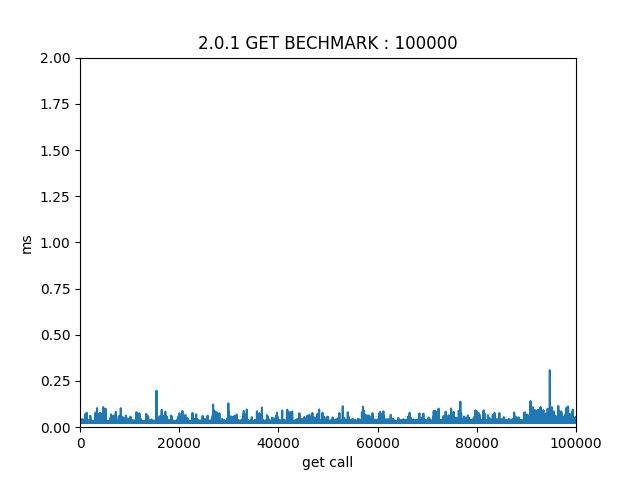
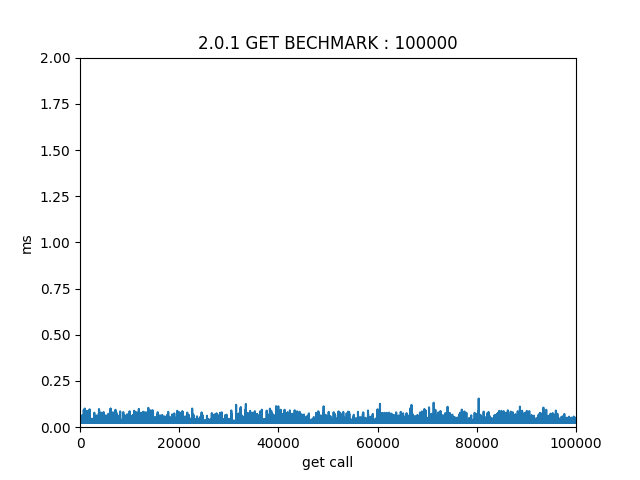
get skip emptyblock issue fixed

Changed region(s): [[0.125, 0.7812, 0.9062, 0.875]]

diff --git a/cog/core.py b/cog/core.py
@@ -105,7 +105,7 @@ class Index:
             key_bit = self.get_key_bit(data_at_prob_position)
             orig_bit = orig_hash % pow(10, self.config.INDEX_BLOCK_KEYBIT_LEN)
             if orig_bit == key_bit:
-                self.logger.debug("PUT: key_bit match! for: "+orig_bit)
+                self.logger.debug("PUT: key_bit match! for: "+str(orig_bit))
                 record = store.read(self.get_store_bit(data_at_prob_position))
                 if record[1][0] == key:
                     self.logger.debug("PUT: Updating index: " + self.name)
@@ -147,6 +147,7 @@ class Index:
         self.logger.debug("GET: Reading index: " + self.name)
         orig_position, orig_hash = self.get_index(key)
         probe_position = orig_position
+        record = None
         looped_back=False
 
         while True:
@@ -165,11 +166,12 @@ class Index:
 
             if data_at_probe_position == self.empty_block:
                 probe_position += self.config.INDEX_BLOCK_LEN
-                self.logger.debug("GET: skipping empty block")
-                continue
+                self.logger.debug("GET: found empty block, terminating get.")
+                return None
 
             key_bit = self.get_key_bit(data_at_probe_position)
             orig_bit = orig_hash % pow(10, self.config.INDEX_BLOCK_KEYBIT_LEN)
+            #record = None
             if(orig_bit == key_bit):
                 record = store.read(self.get_store_bit(data_at_probe_position))
 
@@ -180,7 +182,8 @@ class Index:
                 if record is not None and key == record[1][0]:# found record!
                     self.logger.info("found key in index."+self.name)
                     return record
-                self.logger.info("found key but collision in index."+self.name)
+
+            self.logger.info("found key but collision in index."+self.name)
 
             probe_position += self.config.INDEX_BLOCK_LEN
 
@@ -206,15 +209,23 @@ class Index:
             scan_cursor += self.config.INDEX_BLOCK_LEN
 
     def delete(self, key, store):
-        index_position, index_hash = self.get_index(key)
-        current_store_position = self.db_mem[index_position:index_position + self.config.INDEX_BLOCK_LEN]
-        if current_store_position == self.empty_block:
+        index_position, orig_hash = self.get_index(key)
+        data_at_probe_position = self.db_mem[index_position:index_position + self.config.INDEX_BLOCK_LEN]
+
+        if data_at_probe_position == self.empty_block:
             return False
 
-        record = store.read(self.get_store_bit(current_store_position))
-        if record is None:
-            self.logger.info("Store EOF reached! Record not found.")
-            return False
+        key_bit = self.get_key_bit(data_at_probe_position)
+        orig_bit = orig_hash % pow(10, self.config.INDEX_BLOCK_KEYBIT_LEN)
+
+        record = None
+        if (orig_bit == key_bit):
+            record = store.read(self.get_store_bit(data_at_probe_position))
+
+            if record is None:
+                self.logger.info("Store EOF reached! Record not found.")
+                return False
+
         while key != record[1][0]:
             index_position += self.config.INDEX_BLOCK_LEN
             current_store_position = self.db_mem[index_position:index_position + self.config.INDEX_BLOCK_LEN]
@@ -223,7 +234,7 @@ class Index:
                 return False
 
             key_bit = self.get_key_bit(current_store_position)
-            orig_bit = index_hash % pow(10, self.config.INDEX_BLOCK_KEYBIT_LEN)
+            orig_bit = orig_hash % pow(10, self.config.INDEX_BLOCK_KEYBIT_LEN)
             if (orig_bit == key_bit):
                 record = store.read(self.get_store_bit(current_store_position))
                 if len(record) == 0:
@@ -231,6 +242,7 @@ class Index:
                     return False
 
         self.db_mem[index_position:index_position + self.config.INDEX_BLOCK_LEN] = self.empty_block
+        self.logger.debug("deleted :"+str(data_at_probe_position))
         self.load -= 1
         return True
 

diff --git a/test/insert_bench.py b/test/insert_bench.py
@@ -1,17 +1,16 @@
-from cog.core import Store
-from cog.core import Table
-from cog.core import Indexer
-from cog import config
 import logging
 import os
-import shutil
-from logging.config import dictConfig
-import string
 import random
+import shutil
+import string
 import timeit
 import unittest
+from logging.config import dictConfig
+
 import matplotlib.pyplot as plt
 
+from cog import config
+from cog.core import Table
 
 #!!! clean namespace before running test.
 #need OPS/s

diff --git a/cog/config.py b/cog/config.py
@@ -64,10 +64,10 @@ logging_config = dict(
     handlers = {
         'h': {'class': 'logging.StreamHandler',
               'formatter': 'f',
-              'level': logging.DEBUG}
+              'level': logging.WARN}
         },
     root = {
         'handlers': ['h'],
-        'level': logging.DEBUG,
+        'level': logging.WARN,
         },
 )

diff --git a/test/test_core.py b/test/test_core.py
@@ -66,7 +66,7 @@ class TestCore(unittest.TestCase):
 
         returned_data=index.get(expected_data[0], store)
         print("retrieved data: "+str(returned_data))
-        self.assertEqual(None, returned_data)
+        # self.assertEqual(None, returned_data)
 
         index.close()
         store.close()
